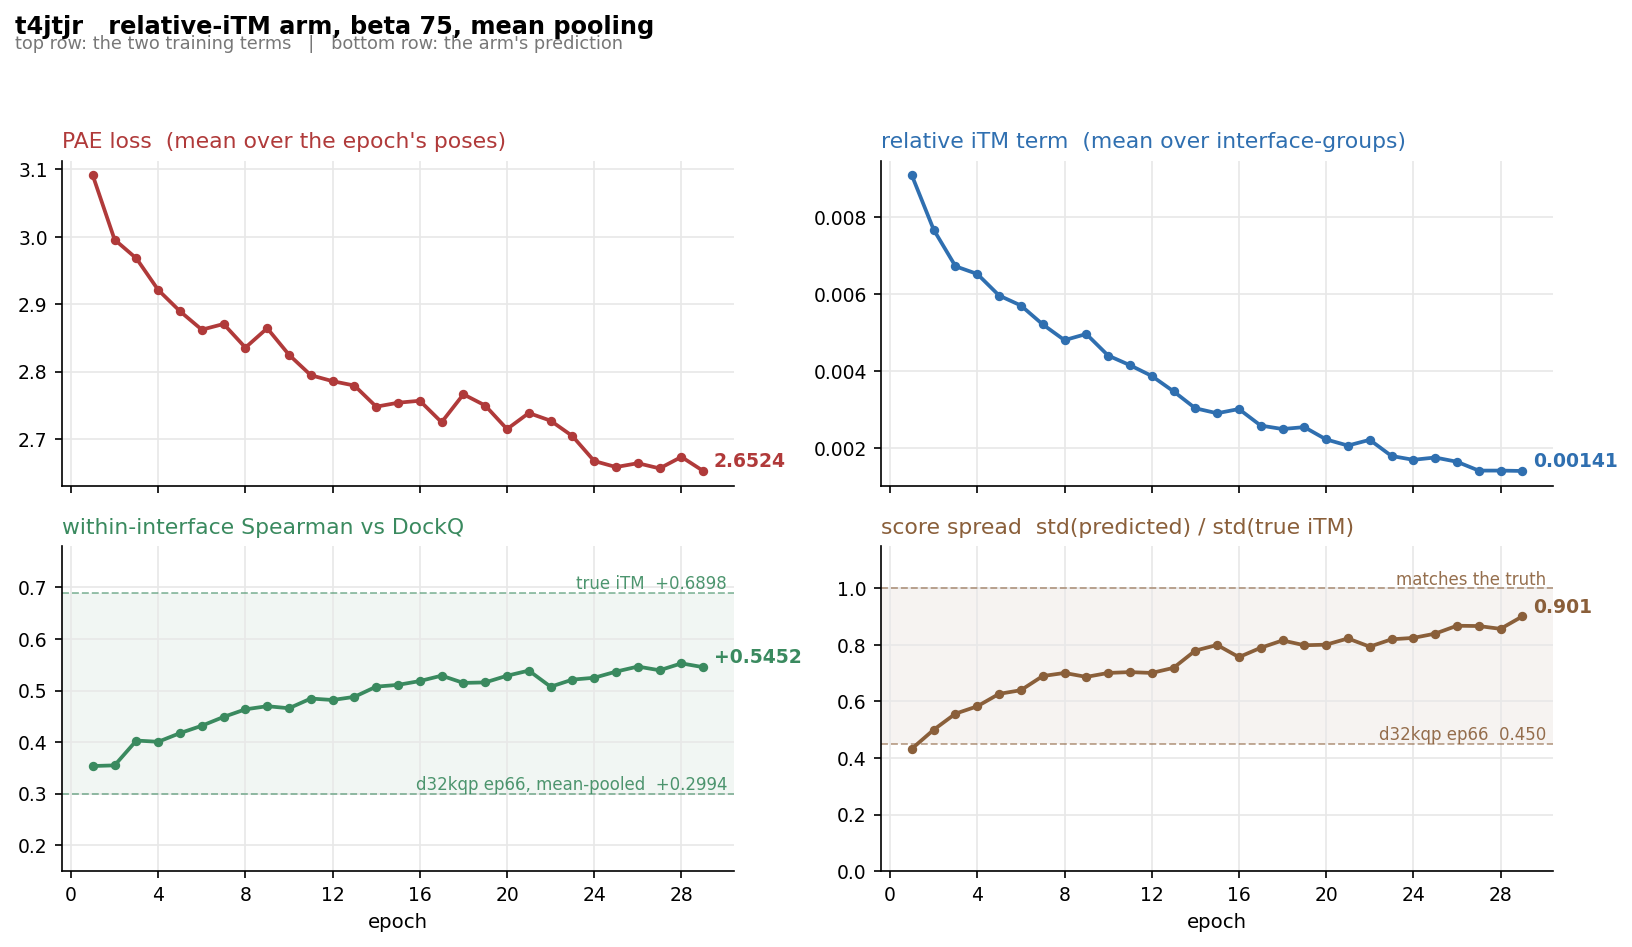
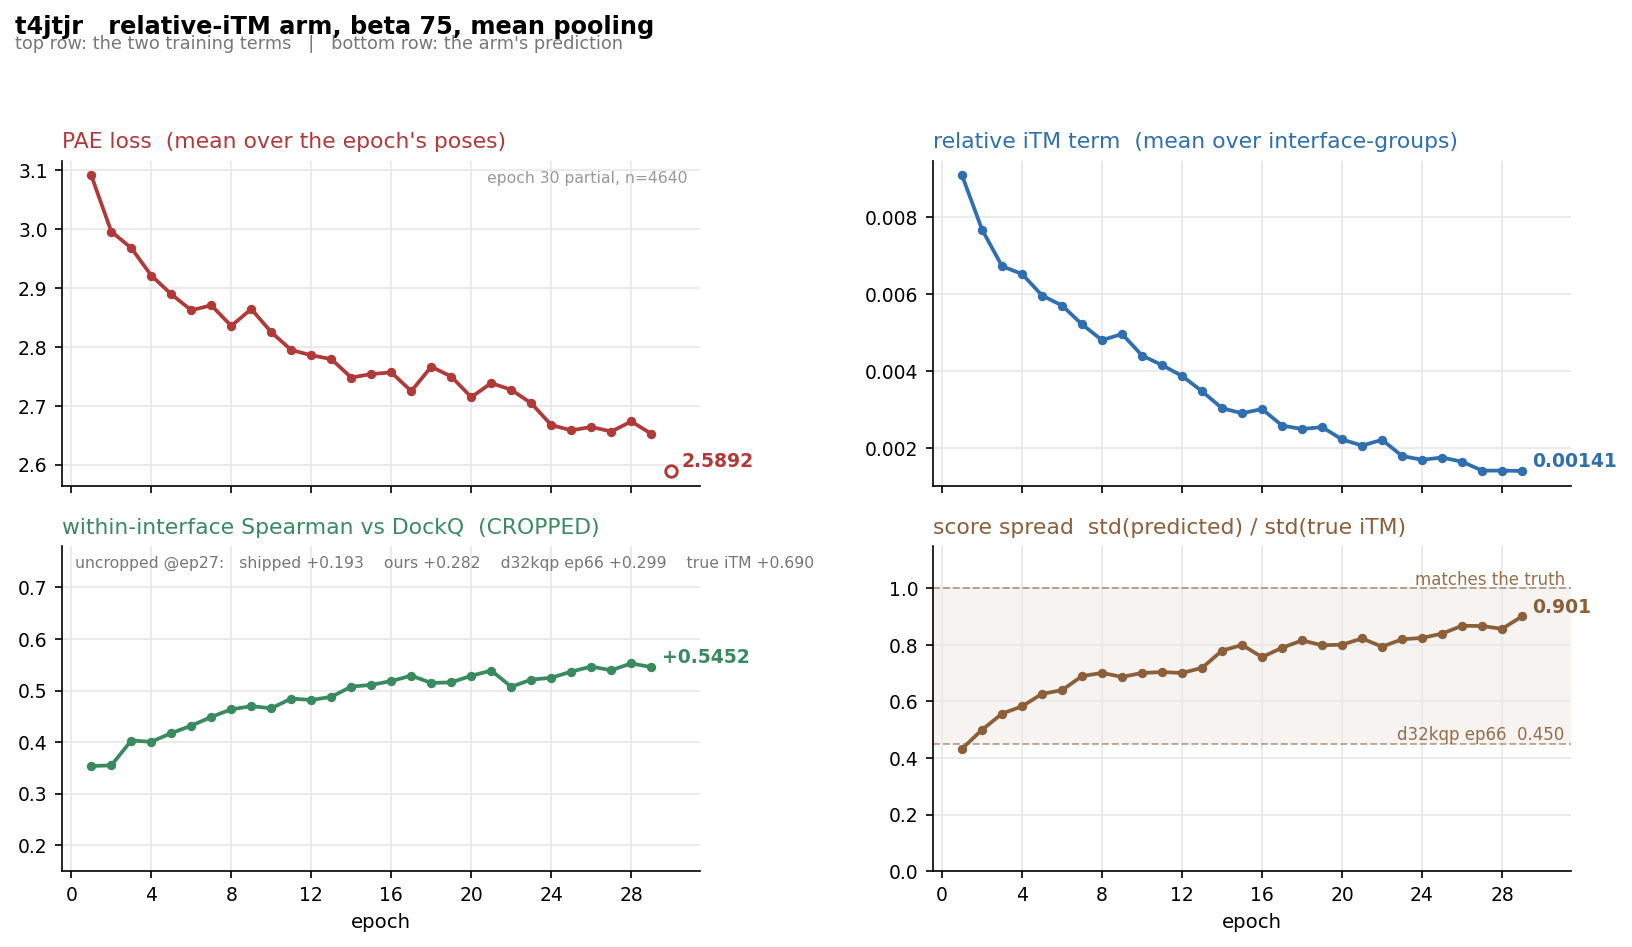
Spearman panel: the four reference labels were printing through each other
Two separate collisions, both mine from the previous commit:

The four dashed uncropped references sat on a panel spanning 0.63 of Spearman,
and ours-uncropped (+0.2819) is 0.0175 from d32kqp (+0.2994) -- so those two
labels printed on top of one another, and the long axis title ran into the
spread panel's title beside it. They are now ONE line of small grey text inside
the panel's empty headroom, and the title is just "(CROPPED)".

They also did not belong on that axis. The curve is cropped and the references
are uncropped; drawing them as lines invites laying a ruler across them, which
is the comparison that caused this whole thread.

The partial-epoch note moved too: at (0.98, 0.04) it printed straight through
the PAE curve, which ends in the lower right, and at y=1.015 it landed in the
title's own band. Both notes now sit inside the axes where the data is not.

Claude-Session: https://claude.ai/code/session_014t55QPNWnMkjqFi95YVBtG

diff --git a/extra_training/run_logging/plot_rel_arm.py b/extra_training/run_logging/plot_rel_arm.py
@@ -127,8 +127,11 @@ def draw(ax, xs, ys, colour, title, last_fmt="{:.4f}", hollow_last=False):
 draw(ax_pae, eps, pv, "#b03a3a", "PAE loss  (mean over the epoch's poses)",
      hollow_last=partial)
 if partial:
-    ax_pae.annotate(f"epoch {eps[-1]} partial, n={pn[-1]}", (0.98, 0.04),
-                    xycoords="axes fraction", ha="right", fontsize=8, color="#999999")
+    # ABOVE THE AXES, not at (0.98, 0.04): the PAE curve ends in the lower right, so the note
+    # printed straight through the last few epochs' markers.
+    ax_pae.annotate(f"epoch {eps[-1]} partial, n={pn[-1]}", (0.98, 0.97),
+                    xycoords="axes fraction", ha="right", va="top", fontsize=7.5,
+                    color="#999999")
 
 _re = sorted(rel)
 draw(ax_rel, _re, [rel[e] for e in _re], "#2f6fb0",
@@ -149,16 +152,16 @@ _rhe = sorted(rho)
 # axis -- with the ONE matched uncropped pair this arm has, measured by
 # run_logging/rank_gain_location.py at epoch 27. Read the curve for its SHAPE; read the uncropped
 # markers for where the arm actually stands.
-_UNCROPPED = ((0.6898, "true iTM, uncropped  +0.6898", "#3a8a5f"),
-              (0.2994, "d32kqp ep66, uncropped  +0.2994", "#3a8a5f"),
-              (0.2819, "THIS ARM ep27, uncropped  +0.2819", "#b03a3a"),
-              (0.1931, "shipped head, uncropped  +0.1931", "#8a8a8a"))
-for _y, _lab, _c in _UNCROPPED:
-    ax_rho.axhline(_y, color=_c, lw=0.9, ls="--", alpha=0.6)
-    ax_rho.annotate(_lab, (0.99, _y), xycoords=("axes fraction", "data"), ha="right",
-                    va="bottom", fontsize=7.5, color=_c, alpha=0.95)
+# ONE LINE OF TEXT, NOT FOUR DASHED LINES. Drawn on the axis they collided twice over: the panel
+# is ~0.63 of Spearman tall, and ours-uncropped (+0.2819) sits 0.0175 from d32kqp (+0.2994), so
+# the two labels printed on top of each other. They also do not BELONG on this axis -- they are
+# uncropped and the curve is cropped, so a reader should not be able to lay a ruler across them.
 draw(ax_rho, _rhe, [rho[e] for e in _rhe], "#3a8a5f",
-     "within-interface Spearman vs DockQ  (curve CROPPED, dashed refs UNCROPPED)", "{:+.4f}")
+     "within-interface Spearman vs DockQ  (CROPPED)", "{:+.4f}")
+ax_rho.annotate("uncropped @ep27:   shipped +0.193    ours +0.282    "
+                "d32kqp ep66 +0.299    true iTM +0.690",
+                (0.02, 0.97), xycoords="axes fraction", ha="left", va="top",
+                fontsize=7.5, color="#777777")
 ax_rho.set_ylim(0.15, 0.78)
 
 _sde = sorted(sdr)
